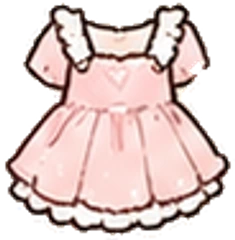
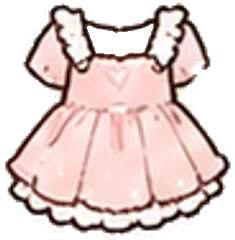
Dress Up: open each dress's neckline so her neck shows
The back of the dress showed above the front collar where her neck should
be. assets/cut-dressup.mjs now makes that part of each dress see-through,
and skin is drawn over her camisole top under the dress, so the neckline
shows her neck.

Changed region(s): [[0.3574, 0.0875, 0.6553, 0.2333]]

diff --git a/public/js/dressup.js b/public/js/dressup.js
@@ -117,6 +117,12 @@ BW.dressup = (() => {
           });
         };
         arms(false);
+        // skin over her camisole's top, so an open neckline shows her neck and chest, not the camisole
+        const fx = ox + DOLL.face, top = 252;
+        const g = ctx.createLinearGradient(0, top - 8, 0, top + 6);
+        g.addColorStop(0, 'rgba(251, 214, 203, 0)'); g.addColorStop(1, '#FBD6CB');
+        ctx.fillStyle = g;
+        ctx.beginPath(); ctx.ellipse(fx + 4, top + 40, 56, 48, 0, Math.PI, 0); ctx.lineTo(fx + 60, top + 90); ctx.lineTo(fx - 52, top + 90); ctx.closePath(); ctx.fill();
         ctx.drawImage(dress, dx, dy, dw, dh);
         // her long hair falls in front of the dress's shoulders
         if (hair) ctx.drawImage(hair, ox, 0);
